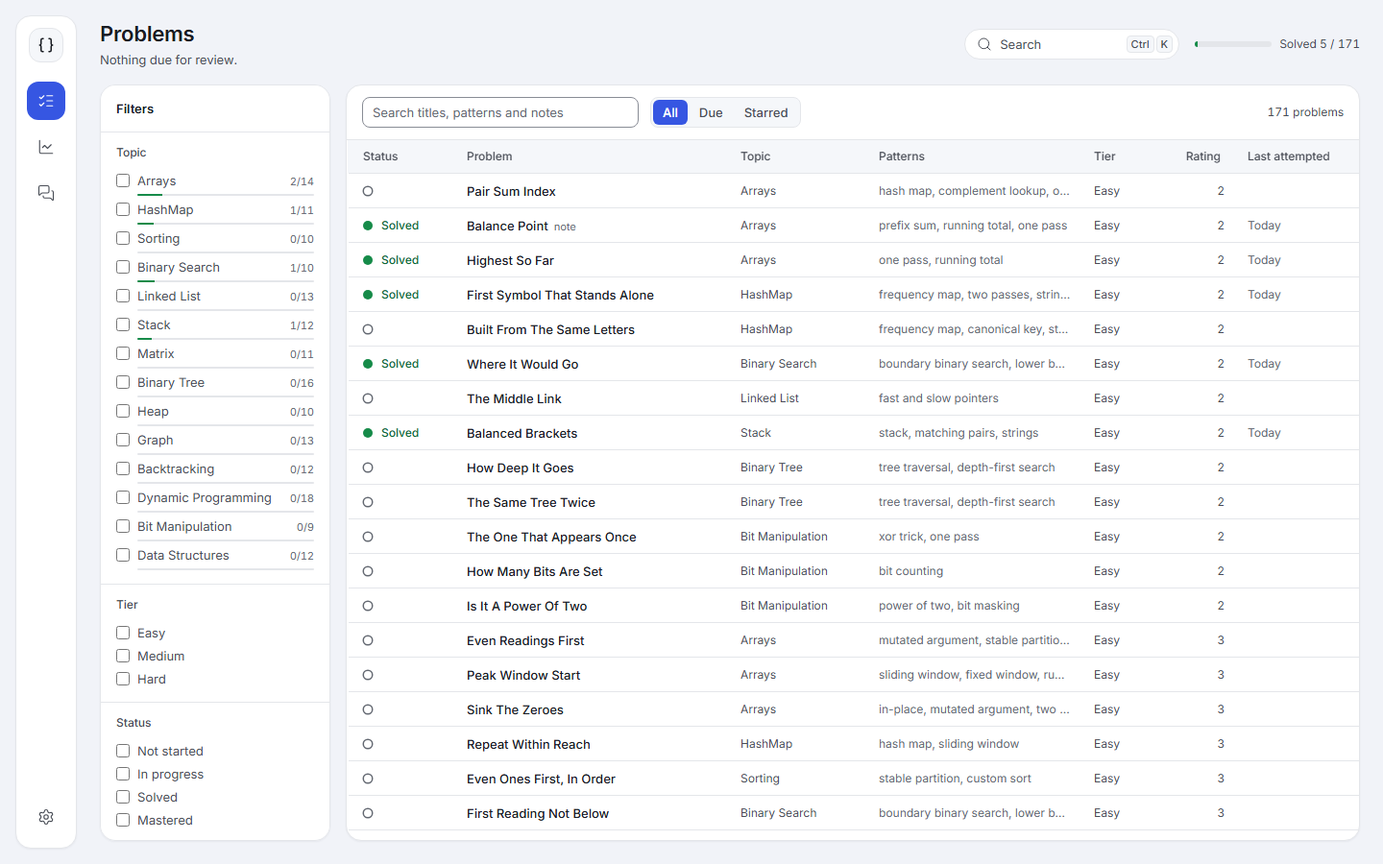
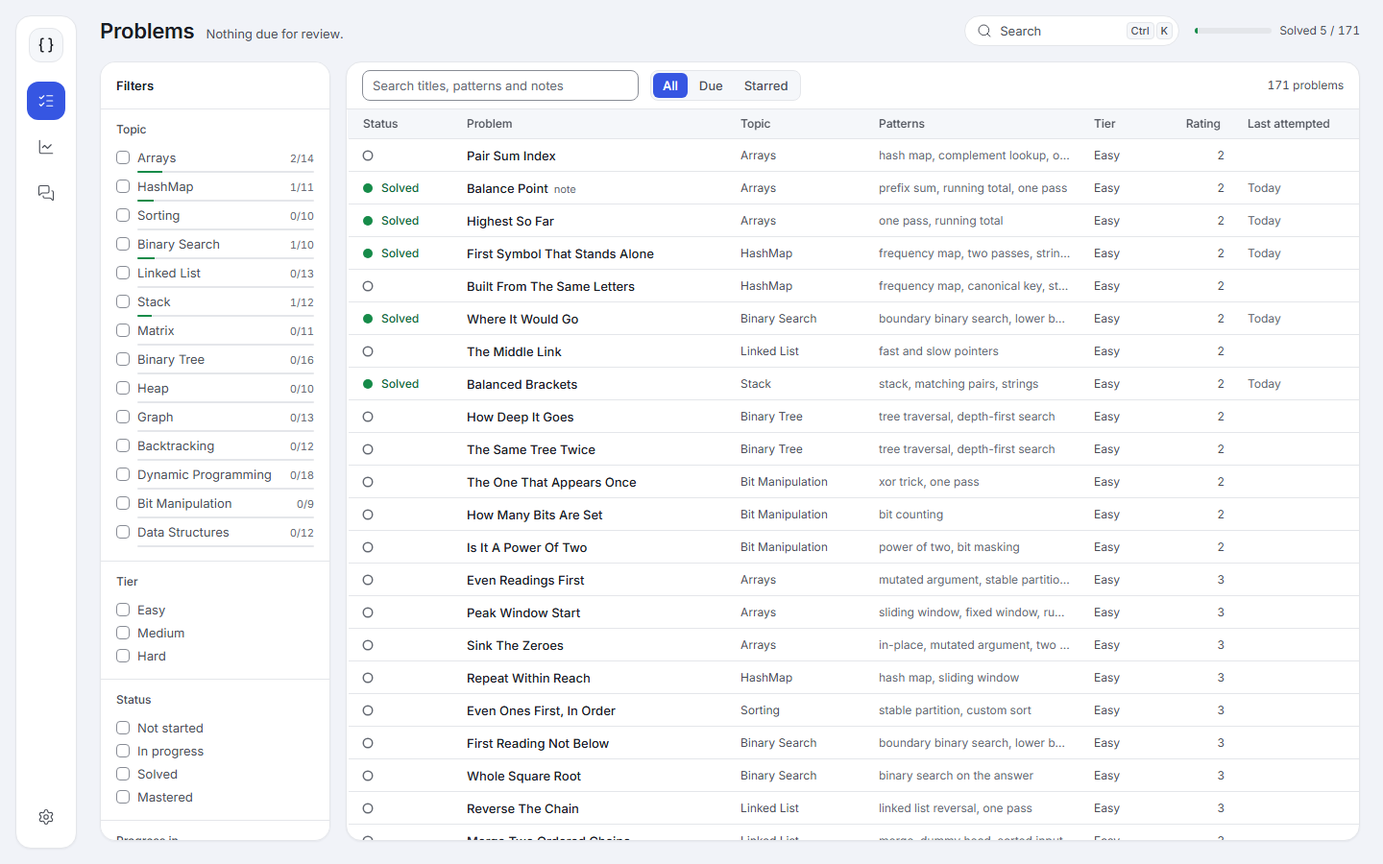
P9-7: DESIGN.md, ROADMAP, CHANGELOG and README screenshots
DESIGN.md records 34px rows, the one-row header, the palette, the token-drawn
controls, and aligns the spec to the code for the toolbar across both columns
and the 18px Progress sub-stats. P9-7 marked Done with the owner's decisions.

diff --git a/docs/DESIGN.md b/docs/DESIGN.md
@@ -16,6 +16,11 @@ section 1 and then write down what you decided.
 > `git show 181e5c5:docs/DESIGN.md`. The redesign's run - brief, four reviewed
 > preview rounds, decision - is in `data/design-audit/redesign-cards/`
 > (gitignored).
+>
+> **P9-7 (2026-09-23)** settled what P9-6 left open: the list wins back its rows
+> (sections 6 and 8), the page header is one row, checkboxes and radios are drawn
+> from the tokens, and the spec now says what ships for the workspace toolbar and
+> the Progress sub-stats (sections 5 and 8).
 
 ---
 
@@ -195,13 +200,18 @@ arrive on a plane.
 | `text-sm`   | 13px | Dense UI: buttons, tabs, table cells, card titles                 |
 | `text-base` | 14px | Body text, problem statements                                     |
 | `text-md`   | 16px | Lead paragraphs, coach replies (serif)                            |
-| `text-lg`   | 18px | Panel titles where a card title is not enough                     |
+| `text-lg`   | 18px | Panel titles; the sub-stats under a divider on a card (600)       |
 | `text-xl`   | 22px | Page titles; the coach's brief headline (serif)                   |
-| `text-2xl`  | 28px | Secondary stat numerals                                           |
+| `text-2xl`  | 28px | A stat that stands alone: the interview clock, `Stat` secondary   |
 | `text-3xl`  | 36px | The primary stat numeral on a card. The largest thing in the app. |
 
 `base` stays 14px: the statement is read, and the list is scanned. Nothing below
 12px carries meaning a user must read to work.
+
+The sub-stats under the Solved card's divider (Mastered, Due for review, the
+streak) are `text-lg` 600 beside an icon tile, not 28px: they annotate the 36px
+numeral above them, and three 28px numbers under one 36px number is a KPI row
+with the hierarchy flattened out of it (P9-7 aligned the spec to the code here).
 
 Weights: 400 text, 500 controls and emphasis, 600 headings and card titles.
 **700 only for stat numerals of 28px and up**, where the reference's weight
@@ -216,13 +226,13 @@ Every number read by comparison - counts, timings, ratings, deltas - gets `tnum`
 so even steps land on the grid and odd ones are deliberate half-steps. The
 reference's airiness is spent in chosen places, not by stretching the step:
 
-| Where                 | Space                                                                                                                                                                                                                                                       |
-| --------------------- | ----------------------------------------------------------------------------------------------------------------------------------------------------------------------------------------------------------------------------------------------------------- |
-| Canvas padding        | 24px (`p-6`)                                                                                                                                                                                                                                                |
-| Gap between cards     | 16px (`gap-4`); 12px in the workspace, where width is scarce                                                                                                                                                                                                |
-| Card padding          | 20px (`p-5`); 16px for dense cards (the list, the results panel)                                                                                                                                                                                            |
-| Card title to content | 16px                                                                                                                                                                                                                                                        |
-| Table rows            | 36px tall (was 33px). Measured after P9-6: with the page header and the card's toolbar, a 1440×900 window shows 19 rows where version 1 showed 24 - more than the "about one row fewer" this table first said. Left for the owner to weigh against the look |
+| Where                 | Space                                                                                                                                                                                                                                                                                                                                              |
+| --------------------- | -------------------------------------------------------------------------------------------------------------------------------------------------------------------------------------------------------------------------------------------------------------------------------------------------------------------------------------------------- |
+| Canvas padding        | 24px (`p-6`)                                                                                                                                                                                                                                                                                                                                       |
+| Gap between cards     | 16px (`gap-4`); 12px in the workspace, where width is scarce                                                                                                                                                                                                                                                                                       |
+| Card padding          | 20px (`p-5`); 16px for dense cards (the list, the results panel)                                                                                                                                                                                                                                                                                   |
+| Card title to content | 16px                                                                                                                                                                                                                                                                                                                                               |
+| Table rows            | 34px tall (33px in version 1). P9-6 shipped 36px and a two-line page header, and a 1440×900 window showed 19 rows where version 1 showed 24. The owner chose rows over air (P9-7): a one-row header, a tighter toolbar and table header, and 34px rows bring it to 21 - 12.5% below version 1, inside the ~15% a redesign may spend without asking |
 
 In hand-written CSS a spacing step is `calc(var(--spacing) * 3)`, never
 `var(--spacing-3)`. Tailwind v4 has one `--spacing` variable; the shorter
@@ -303,29 +313,49 @@ and Problems stays active inside a problem. Every item has a tooltip naming it
 (there are no navigation shortcuts to add to it). The rail replaces the top
 navigation bar. The theme choice is in Settings > Appearance, not the chrome: the
 header has room for what is used on every visit, and the theme is chosen once. To the right of
-it, each page has a **header** on the canvas, not in a card: title (`text-xl`,
-600), one muted line of real context beneath ("4 due for review · 1 in
-progress" - what is waiting, never a count the page shows again below), and on the right the search pill (`surface`, `rounded-full`, "Search"
-plus a `Ctrl K` chip, opening the palette) and the solved counter.
+it, each page has a **header** on the canvas, not in a card, one 64px row on every
+page: title (`text-xl`, 600) with one muted line of real context on its baseline
+("4 due for review · 1 in progress" - what is waiting, never a count the page shows
+again below; truncated with the whole sentence in its tooltip), and on the right the
+search pill (`surface`, `rounded-full`, "Search" plus a `Ctrl K` chip, opening the
+palette) and the solved counter. The header is there while the page loads and when
+it fails, so the page says where you are before it says what went wrong. (P9-6 put
+the context on a line of its own; P9-7 moved it up, because that line cost the
+list a row.)
 
 **Problem list.** Two cards: filters (topic, difficulty, status, the language
 progress is counted in) in a narrow card on the left, and the table in a wide
 card beside it, with its own toolbar row (search field, a Segmented control for
 All / Due / Starred, the count). Due is a list filter of its own
 (`?due=true`, from the review queue) and Starred moved out of the filter card
-into the Segmented. Rows 36px, hairline dividers, status glyph first, numbers
+into the Segmented. Rows 34px, hairline dividers, status glyph first, numbers
 `tnum` and right-aligned. The row under the pointer takes `surface-sunken`; the
 row holding keyboard focus - where you are - has a 2px accent bar at its left
 edge. Below 1280px the filter card folds behind a Filters button and the
-Patterns column steps aside.
+Patterns column steps aside. The filter card's checkboxes and radios are the
+native inputs drawn from the tokens (`base.css`): a `border-input` edge on
+`surface`, filled `accent` with an `fg-on-accent` tick when on - the browser's own
+were a white square in dark. The search field's clear button is drawn the same way.
+
+**Command palette.** A `surface-raised` dialog over the scrim: the field, then the
+results in two labelled groups, Commands and Problems (a group with nothing in it
+is not shown). Problem rows keep their columns - a fixed-width status, the title,
+then topic and tier - so titles start at one x whatever the status word is. The
+recommendation's hint is the coach's, so it is serif.
 
 **Workspace.** Three cards with 12px gutters: the statement (tabs across its top,
 Description / Hints / Coach / Editorial / Notes / Submissions), the editor, and
-the results panel under the editor. A toolbar row above the editor card: a
-Segmented control for Python / Java, secondary buttons (Reset, Bookmark,
-Interview mode), and on the right **Run** (secondary, `rounded-md`), **Submit**
-(primary pill) and **AI Help** (primary-outline pill with the coach mark and a
-`Ctrl Shift H` chip) - one filled pill per region. Monaco gets **its own theme**,
+the results panel under the editor. A toolbar row on the canvas across the top
+of both columns: a Segmented control for Python / Java, secondary buttons (Reset,
+Bookmark, Interview mode), the status, and on the right **Run** (secondary,
+`rounded-md`), **Submit** (primary pill) and **AI Help** (primary-outline pill with
+the coach mark and a `Ctrl Shift H` chip) - one filled pill per region. Across both
+columns rather than above the editor card alone, as the first draft said: Bookmark,
+Interview mode and the status are about the problem, not the code, and the divider
+between the columns moves - at 1440 the toolbar is wider than the editor column
+already, and dragging the divider would only take more room from it. Below 1280px Interview mode shows its icon alone
+(its name stays in its tooltip and its accessible name), so AI Help keeps its keys
+at 1024. Monaco gets **its own theme**,
 defined from the tokens with `monaco.editor.defineTheme`: background `surface`,
 line numbers `fg-subtle`, selection `accent-subtle`, and keywords moved to a
 violet (~hue 300) so the code never shares the accent's blue. The verdict line in
@@ -445,7 +475,9 @@ Unchanged in substance from the first version:
   than a spinner. **Loading** is a skeleton in the shape of what is coming, inside
   the card that is coming, never pulsing and invisible for its first 150ms.
   **Empty** says why and offers the way out. **Error** says what failed and offers
-  "Try again" (`ErrorState`).
+  "Try again" (`ErrorState`), in a card under the page's header. The design audit
+  captures the list's and Progress's loading and error states, a coach reply, a
+  running interview and a keyboard-focused list row (P9-7).
 - `styles/contrast.test.ts` measures the token pairs in both themes on every unit
   run, and gains the card-edge pair (section 7). `e2e/a11y.spec.ts` runs axe over
   every screen in both themes and fails on `serious` or `critical`. Monaco is

diff --git a/ROADMAP.md b/ROADMAP.md
@@ -180,7 +180,7 @@ Phases: **P0** Foundations · **P1** Problem format · **P2** Judge + authoring 
 | 83 | P9-4 | P9 | OpenAI-compatible provider | Adapter for OpenAI-compatible endpoints (`baseUrl`), which also covers Ollama/LM Studio for fully offline coaching. 2026-09-18: `createOpenAiCompatibleProvider`, third through the D12 seam, and the 51 assertions in `contract.test.ts` now run three times. Two things are different about it, both because the endpoint is the user's own: `coach.baseUrl` is a **setting** rather than an environment override - for the other two the address is a fact about the vendor - and its pricing table is **empty on purpose**, so the spend cap does not apply and Settings says why instead of showing a confident `$0.00`. Structured output is negotiated: `json_schema` first, one retry in `json_object` when the server says it cannot do schemas, since llama.cpp and friends still refuse and the answer is re-validated against the zod schema here either way. Two contract assertions had to be widened rather than satisfied: the key arrives as `Bearer <key>`, and the OpenAI chat API has no field for the system prompt at all - it is `messages[0]`, and asserting otherwise would be asserting the API is something else. | Done |
 | 84 | P9-5 | P9 | Format on save | Optional `black` and `google-java-format` integration via subprocess, detected at first run. 2026-09-22: `apps/server/src/formatters.ts` finds each by running it with `--version` - `DEVPROMAX_BLACK`, else `black`, else `<judge python> -m black`; `DEVPROMAX_GOOGLE_JAVA_FORMAT` (a jar, run with the judge's `java`, or an executable), else `google-java-format` - at start-up, cached, and again from Settings' "Check again". `GET`/`POST /api/format`; formatting is 200 in all three outcomes (`formatted`, `invalid` with the formatter's line and column, `unavailable`), writes nothing, and runs through `runProcess` with stdin (new `input` option), the allow-listed environment, a 20 s limit and an output cap. Java uses `--aosp`, the four-space style every starter already has. **"On save" means Ctrl+S, not the autosave**: the autosave fires mid-line, and reflowing code under a moving cursor is how a formatter gets uninstalled. So Ctrl+S (new, and no longer the browser's Save page dialog) saves at once and formats first when the new `editor.formatOnSave` preference is on; a Format button and Monaco's Shift+Alt+F appear only for a language whose formatter was found; the result goes in as one undoable edit, and only if the editor still holds exactly what was sent. The doctor lists both as optional without affecting its exit code. Tests: 25 unit (`formatters.test.ts`, a stand-in runner), 11 route, 2 `runProcess` stdin, 7 integration against the real two (opt-in, `DEVPROMAX_FORMATTER_TESTS=1`, own CI lane with pinned versions), 8 RTL in the workspace and 3 in Settings, and `e2e/format.spec.ts` for the undo and the Monaco keybinding. The browser pass found two defects the RTL suite could not: Ctrl+S straight after typing sent the text from before the last render, and the Format button kept focus so Ctrl+Z undid nothing. | Done |
 | 85 | P9-6 | P9 | Visual redesign to DESIGN.md v2 | 2026-09-22: `docs/DESIGN.md` rewritten from the owner's reference (card-based dashboard look, icon rail, royal-blue accent, serif coach voice); ROADMAP D16 updated. 2026-09-23, unattended through the `design-update` skill's redesign mode (run `data/design-audit/redesign-cards/`): four token rounds previewed on every screen in both themes and independently reviewed; none reached the pass score (the preview cannot show layout), so the best round with every hard gate green went forward under the skill's no-pass rule, its open issues carried into the apply (`decision.md`). Shipped: `tokens.css` v2 (accent hue 268, `surface-selected`, `code-keyword`, `card-lift`), Newsreader and lucide-react, the Monaco theme from the tokens, the icon rail and page headers, the primitives (Card, Segmented, Kbd, RailItem, Stat, Callout, ListRow, SegmentBar, CoachMark, VerdictTile), every screen as cards, the Progress dashboard (with a `solves` series on `/api/dashboard`) and a Due view of the list (`?due=true`); `contrast.test.ts` and the skill's gates hold the new pairs; KitchenSink and the README screenshots show it. The reference image was not on disk, so the values came from DESIGN.md's targets. | Done |
-| 86 | P9-7 | P9 | Redesign follow-ups (open items from P9-6) | Left open by the P9-6 run (`data/design-audit/redesign-cards/decision.md`, `final3/plan.md`). **Owner decisions:** (1) list density - at 1440×900 the list shows 19 rows where v1 showed 24 (21%, above the ~15% redesign.md asks the owner to approve); keep the look, or recover rows (context line on the title's baseline, tighter header and toolbar); (2) `data/devpromax.db` on the home server holds 48 submissions, their events and interview sittings written by P9-6's e2e runs on 2026-09-23 01:55–02:07 (the dev server on 5174 answered them; nothing was deleted) - keep or clear; (3) whether to commit, push and merge `design/p9-6-redesign`. **Polish (P2/P3):** token-drawn checkboxes and search clear button (native ones are unthemed in dark); AI Help keeps its key chips below 1280px (shorten Interview mode to its icon instead); the workspace toolbar sits above both columns rather than the editor card alone (DESIGN.md 8); secondary stat numerals are 18px where DESIGN.md 5 says 28px - align the code or the spec; the statement meta line can start a wrapped line with "·" at 1024; command palette group labels and an aligned status column; one page-header height on every page (Not found has no context line). **Not yet audited visually:** a coach reply in serif, a running interview, a keyboard-focused list row, loading and error states - add them to `capture.mjs`'s shots. **Declined, recorded for reference:** neutral selected segments and a non-pill AI Help (DESIGN.md 8 states the opposite); builtins out of the keyword colour (needs a Python tokenizer of our own). **Environment:** `black` is not installed on the home server, so format.spec's two formatter tests skip there; run e2e beside a dev server with `DEVPROMAX_PORT` set, and from a shell whose PATH has the JDK. | Not started |
+| 86 | P9-7 | P9 | Redesign follow-ups (open items from P9-6) | Left open by the P9-6 run (`data/design-audit/redesign-cards/decision.md`, `final3/plan.md`). **Owner decisions:** (1) list density - at 1440×900 the list shows 19 rows where v1 showed 24 (21%, above the ~15% redesign.md asks the owner to approve); keep the look, or recover rows (context line on the title's baseline, tighter header and toolbar); (2) `data/devpromax.db` on the home server holds 48 submissions, their events and interview sittings written by P9-6's e2e runs on 2026-09-23 01:55–02:07 (the dev server on 5174 answered them; nothing was deleted) - keep or clear; (3) whether to commit, push and merge `design/p9-6-redesign`. **Polish (P2/P3):** token-drawn checkboxes and search clear button (native ones are unthemed in dark); AI Help keeps its key chips below 1280px (shorten Interview mode to its icon instead); the workspace toolbar sits above both columns rather than the editor card alone (DESIGN.md 8); secondary stat numerals are 18px where DESIGN.md 5 says 28px - align the code or the spec; the statement meta line can start a wrapped line with "·" at 1024; command palette group labels and an aligned status column; one page-header height on every page (Not found has no context line). **Not yet audited visually:** a coach reply in serif, a running interview, a keyboard-focused list row, loading and error states - add them to `capture.mjs`'s shots. **Declined, recorded for reference:** neutral selected segments and a non-pill AI Help (DESIGN.md 8 states the opposite); builtins out of the keyword colour (needs a Python tokenizer of our own). **Environment:** `black` is not installed on the home server, so format.spec's two formatter tests skip there; run e2e beside a dev server with `DEVPROMAX_PORT` set, and from a shell whose PATH has the JDK. **Done 2026-09-23.** Owner: recover rows; keep the e2e rows in `data/devpromax.db`; (3) moot - P9-6 was already on `main` and pushed, no branch left. The list shows 21 rows at 1440×900 (19 before, 24 in v1): one-row 64px page header with the context on the title's baseline, tighter toolbar and table header, 34px rows. Checkboxes, radios and the search clear button drawn from the tokens in `base.css`; Interview mode icon-only below 1280px so AI Help keeps its keys; palette groups (Commands / Problems) with fixed status, topic and tier columns; the statement meta line clips its leading "·"; the header on every loading and error state (Progress, Settings, Interview), and Progress's skeleton grid fixed. Spec aligned to code, with reasons, for the toolbar across both columns and the 18px sub-stats (DESIGN.md 5, 8). `capture.mjs` gains coach reply, running interview, keyboard row, and list / Progress loading and error. | Done |
 
 ---
 

diff --git a/CHANGELOG.md b/CHANGELOG.md
@@ -14,6 +14,7 @@ how they arrived in that section and not worth rewriting after the fact.
 
 ## 2026-09-23
 
+- **P9-7** — the owner chose rows over air, and the arithmetic said that was not one change but four. Putting the header's context on the title's baseline, the change the task named, won back 24px; a tighter toolbar and table header another 12; that is 20 rows at 1440×900, not 21. The last row came from the rows themselves, 36px to 34 - still above version 1's 33 - and 21 rows is 12.5% below version 1, inside what a redesign may spend without asking. The one-row header settled a second item for free: every page's header is now the same height, Not found included, and so are the loading and error states of Progress, Settings and Interview, which had been drawing without one. Two items were settled by changing the spec rather than the code, each for a reason the code had and the spec did not: the toolbar spans both columns because half of it is about the problem rather than the code, and because the divider between the columns moves - at 1440 the toolbar is already wider than the editor column, and dragging the divider only takes more from it; and the Progress sub-stats stay 18px because three 28px numbers under a 36px one is a KPI row. The checkboxes are still native inputs with their keyboard and semantics untouched, drawn from the tokens with `appearance: none`, their tick a mask painted in `fg-on-accent` so no colour is written in the stylesheet. The statement's meta line had been fixed once already by moving each dot to the front of its item, which only moved the stray "·" from the end of a line to the start of the next; the dots now sit in the gap and the line is clipped by one gap, so the first item on any line has its dot cut off. The capture script gained the five states the audit had never looked at, answered in the browser rather than written to its database, and the first of them to run found a bug no test would: Progress's loading skeleton put its grid on a wrapper whose only child was one hidden span, so both skeleton cards stacked in a third of the width. The e2e rows in the home server's database stay, by the owner's choice, and the branch question was moot - P9-6 had already been merged and pushed.
 - **P9-6** — the redesign ran unattended through the `design-update` skill, and the first thing it found was that its input was missing: the reference image the request pointed at was not on disk. It went ahead on the values DESIGN.md v2 had already read off that image, and said so in the brief rather than inventing a measurement. Four token rounds were previewed on every screen in both themes and each went to a fresh reviewer; none reached the pass score, and all four reviewers said why in the same words - the rail, the cards, the dashboard and the serif are layout, and a token preview lays colour over the old layout. So the skill's no-pass rule applied: the best round with every hard gate green went forward, with its open issues written into `decision.md` as conditions on the apply. The rounds still earned their keep. The first two found that "selected" had been a tint nobody could see (1.03:1), which became a token of its own that always travels with a bar; the third that "solved in accent" contradicted "the accent is never a status", which settled topic bars in `success`; the fourth that the accent the reference read as was within a few ΔE of Tailwind's stock blue, so it moved two degrees. Two reviewer suggestions were declined because DESIGN.md states the opposite and the owner wrote it: accent-filled segments and an outlined AI Help pill. The editor's theme is read from the page's tokens rather than tabled beside them, which is why the preview could show it at all, and it surfaced an ordering bug: a child's effect ran before the shell applied the theme, so the editor read the previous theme's colours - the theme is now applied in a layout effect. The coach brief on Progress is written from the coach's rubric marks and never by calling it: D13 does not bend for a dashboard. Two API additions carried the look - a `solves` series and a Due view of the list - and each came with its route test. The built app then got the review the previews could not give it, and it found what previews never show: the statement's sixth tab invisible at 1024, text fields edged at 1.5:1 (a field's edge is the only sign it is a field, so it now has a 3:1 token of its own), the judge's values set at 11px, and the first file of a session left uncoloured for most of a second - the editor's theme effect redefined on mount the theme it had just defined, which restarts Monaco's tokenizer; timed against the build before the redesign and put back. The end-to-end suite found one more contrast failure on the selected step and one test still asserting the old Starred checkbox. It also found something about itself: with a dev server already holding port 5174, the suite's own API cannot bind, so every run had been answered by that dev server and its database rather than `e2e.db`. The Vite proxy and the suite now follow `DEVPROMAX_PORT`, so a run beside a dev server gets an API of its own; the cold-start test runs before the rest, because beside three browser workers on this machine it was timing the machine.
 
 ## 2026-09-22

diff --git a/CLAUDE.md b/CLAUDE.md
@@ -6,7 +6,7 @@ Working agreement for AI-assisted development on this repo. Read `ROADMAP.md` fi
 
 DevProMax is a local-first, LeetCode-style DSA training app for **Python and Java**. A React web UI lists 171 original problems across 14 topics, sorted by difficulty; users run and submit code against hidden tests in a local judge; an on-demand **AI Help** button sends the current code to an LLM coach (user-supplied Anthropic or Gemini key) that responds with rubric feedback and hints until the solution is Mastered.
 
-Current state: **M5 reached (2026-09-22)** — release 1.0; M4 was reached 2026-09-18. The catalogue is 171 validated problems with generated hidden tests (M3); the learning loop is complete apart from P7-10 — progressive hints, the editorial unlock with a diff, submission history, notes, the dashboard and its exportable skills report, interview mode, the command palette with bookmarks and recommendations, the spaced-repetition review queue, and version drift with Re-verify. M5's P8-1 … P8-5 are done: end-to-end tests with a flake budget, performance budgets and Lighthouse ≥ 90, the doctor, welcome, movable `data/` and backups, the README and CHANGELOG, and the legacy `temp/` archive retired (git history keeps it; last at `2c01d25`). Beyond v1, P9-1 (mock interview), P9-2 (Docker executor), P9-4 (OpenAI-compatible provider), P9-5 (format on save, with optional `black` / `google-java-format`) and P9-6 (the visual redesign to DESIGN.md v2) are done.
+Current state: **M5 reached (2026-09-22)** — release 1.0; M4 was reached 2026-09-18. The catalogue is 171 validated problems with generated hidden tests (M3); the learning loop is complete apart from P7-10 — progressive hints, the editorial unlock with a diff, submission history, notes, the dashboard and its exportable skills report, interview mode, the command palette with bookmarks and recommendations, the spaced-repetition review queue, and version drift with Re-verify. M5's P8-1 … P8-5 are done: end-to-end tests with a flake budget, performance budgets and Lighthouse ≥ 90, the doctor, welcome, movable `data/` and backups, the README and CHANGELOG, and the legacy `temp/` archive retired (git history keeps it; last at `2c01d25`). Beyond v1, P9-1 (mock interview), P9-2 (Docker executor), P9-4 (OpenAI-compatible provider), P9-5 (format on save, with optional `black` / `google-java-format`) P9-6 (the visual redesign to DESIGN.md v2) and P9-7 (its follow-ups: list density back to 21 rows, token-drawn checkboxes, the owner's open decisions) are done.
 
 Two tasks are not to be started and say so in their rows: **P7-10** needs measured human solving times, and **P9-3** (more languages) is deferred by the owner until the existing app is solid.
 
